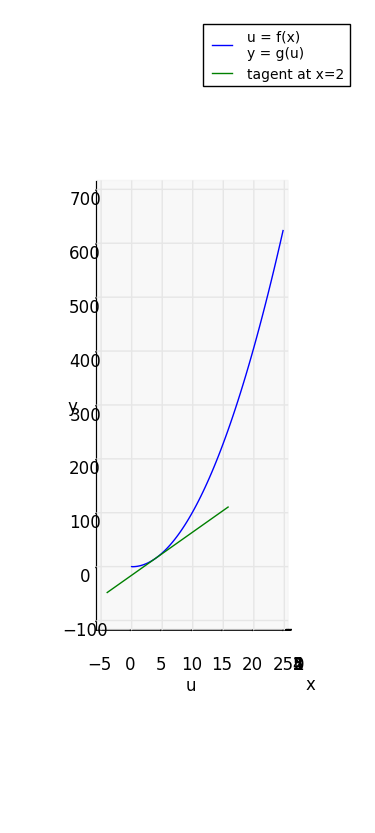
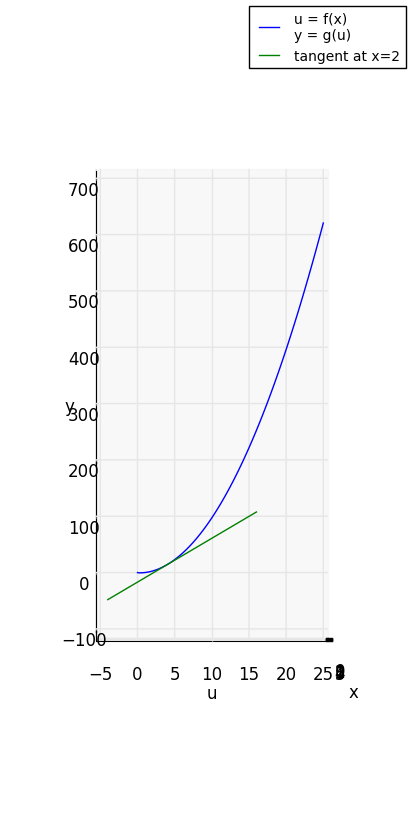
spelling correction

Changed region(s): [[0.1467, 0.2185, 0.88, 0.8427], [0.528, 0.0, 0.9973, 0.1248], [0.5867, 0.593, 0.616, 0.6242]]

diff --git a/chainrule.py b/chainrule.py
@@ -66,7 +66,7 @@ ax.set_xlabel('x')
 ax.set_ylabel('u')
 ax.set_zlabel('y')
 
-ax.plot(DX_Offset, DU_Offset, DY_Offset, label = "tagent at x=2")
+ax.plot(DX_Offset, DU_Offset, DY_Offset, label = "tangent at x=2")
 
 ax.legend()
 
